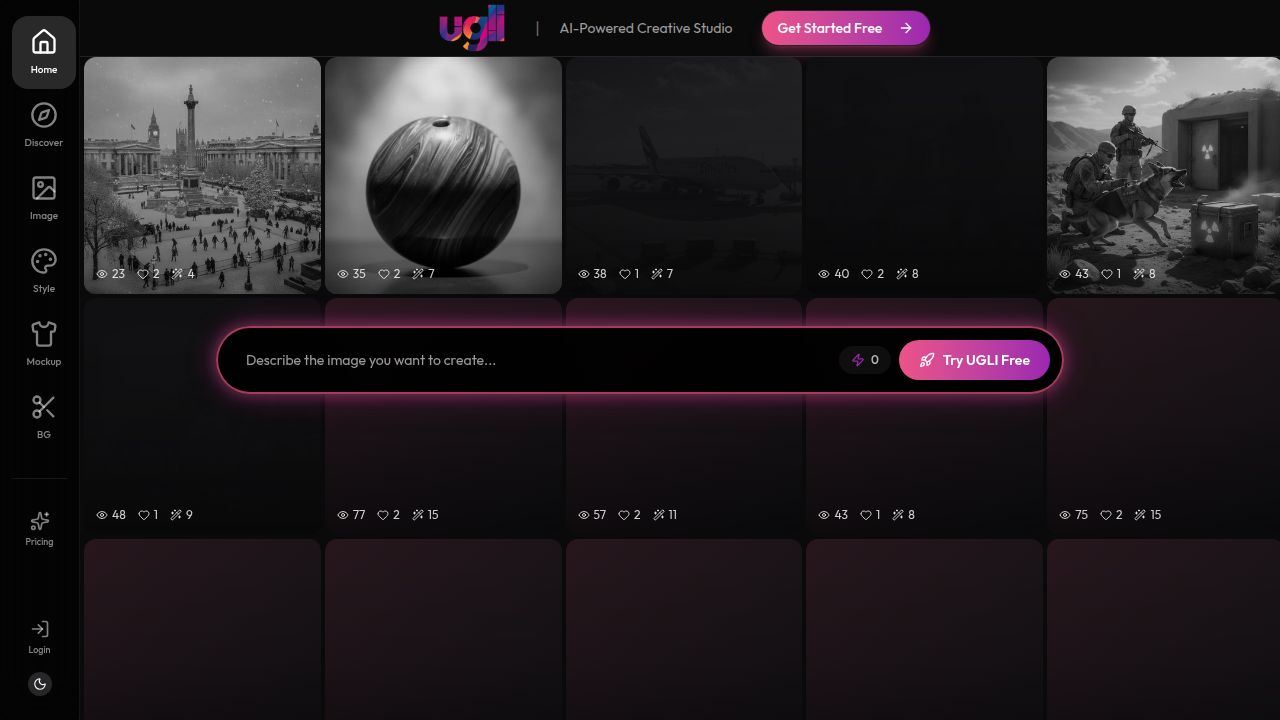
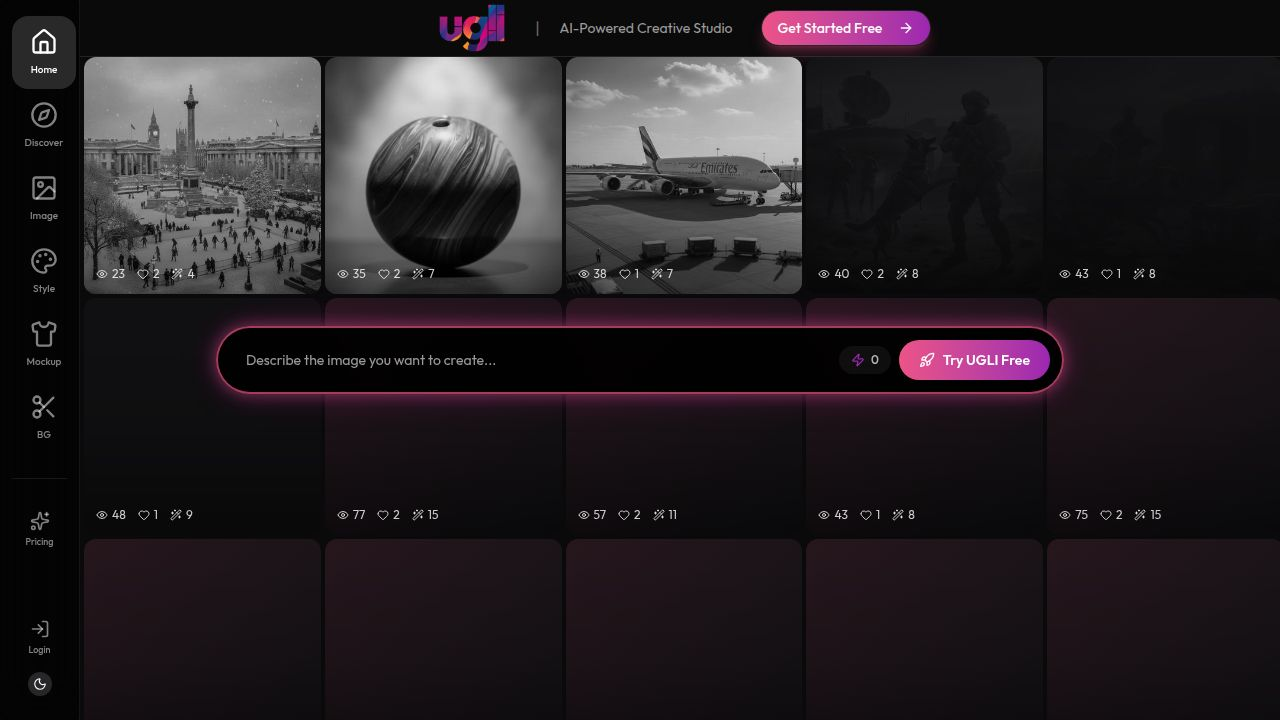
Add gallery options and improve mockup generator layout
Add a dropdown menu with actions for gallery images and refactor the mockup generator's camera angles section.

Replit-Commit-Author: Agent
Replit-Commit-Session-Id: 26597823-46ad-4689-b72f-6ac7cb0ce539
Replit-Commit-Checkpoint-Type: intermediate_checkpoint
Replit-Commit-Event-Id: 80f9e5e1-228a-4d70-b9f7-16ef39c6ae64
Replit-Commit-Screenshot-Url: https://storage.googleapis.com/screenshot-production-us-central1/baa6e7c9-800f-4db8-977d-5f62b4ff348e/26597823-46ad-4689-b72f-6ac7cb0ce539/NnGBm77
Replit-Helium-Checkpoint-Created: true

Changed region(s): [[0.4375, 0.0611, 0.625, 0.4278], [0.8125, 0.0611, 1.0, 0.4278]]

diff --git a/client/src/pages/mockup-generator.tsx b/client/src/pages/mockup-generator.tsx
@@ -2092,98 +2092,101 @@ export default function MockupGenerator() {
                                     />
                                   </div>
 
-                                  {/* Angles Selection */}
-                                  <div className="bg-card rounded-xl border border-border p-4 sm:p-5">
-                                    <div className="flex items-center justify-between mb-3">
-                                      <div className="flex items-center gap-2">
-                                        <Camera className="h-4 w-4 text-primary" />
-                                        <h3 className="text-sm font-bold text-foreground">Camera Angles</h3>
+                                  {/* Right Column: Camera Angles + Output Quality */}
+                                  <div className="flex flex-col gap-4">
+                                    {/* Angles Selection */}
+                                    <div className="bg-card rounded-xl border border-border p-4 sm:p-5">
+                                      <div className="flex items-center justify-between mb-3">
+                                        <div className="flex items-center gap-2">
+                                          <Camera className="h-4 w-4 text-primary" />
+                                          <h3 className="text-sm font-bold text-foreground">Camera Angles</h3>
+                                        </div>
+                                        <div className="flex gap-2">
+                                          <button 
+                                            onClick={() => setSelectedAngles(MOCKUP_ANGLES.filter(a => a.recommended).map(a => a.id))}
+                                            className="text-xs font-medium text-green-600 hover:underline"
+                                          >
+                                            Recommended
+                                          </button>
+                                          <span className="text-border text-xs">|</span>
+                                          <button 
+                                            onClick={() => setSelectedAngles(MOCKUP_ANGLES.map(a => a.id))}
+                                            className="text-xs font-medium text-primary hover:underline"
+                                          >
+                                            All
+                                          </button>
+                                          <span className="text-border text-xs">|</span>
+                                          <button 
+                                            onClick={() => setSelectedAngles([])}
+                                            className="text-xs font-medium text-muted-foreground hover:underline"
+                                          >
+                                            Clear
+                                          </button>
+                                        </div>
                                       </div>
-                                      <div className="flex gap-2">
-                                        <button 
-                                          onClick={() => setSelectedAngles(MOCKUP_ANGLES.filter(a => a.recommended).map(a => a.id))}
-                                          className="text-xs font-medium text-green-600 hover:underline"
-                                        >
-                                          Recommended
-                                        </button>
-                                        <span className="text-border text-xs">|</span>
-                                        <button 
-                                          onClick={() => setSelectedAngles(MOCKUP_ANGLES.map(a => a.id))}
-                                          className="text-xs font-medium text-primary hover:underline"
-                                        >
-                                          All
-                                        </button>
-                                        <span className="text-border text-xs">|</span>
-                                        <button 
-                                          onClick={() => setSelectedAngles([])}
-                                          className="text-xs font-medium text-muted-foreground hover:underline"
-                                        >
-                                          Clear
-                                        </button>
-                                      </div>
+                                      
+                                      <TooltipProvider delayDuration={200}>
+                                        <div className="flex flex-wrap justify-center gap-3">
+                                          {MOCKUP_ANGLES.map((angle) => {
+                                            const isSelected = selectedAngles.includes(angle.id);
+                                            return (
+                                              <Tooltip key={angle.id}>
+                                                <TooltipTrigger asChild>
+                                                  <button
+                                                    onClick={() => {
+                                                      if (isSelected) {
+                                                        setSelectedAngles(selectedAngles.filter(id => id !== angle.id));
+                                                      } else {
+                                                        setSelectedAngles([...selectedAngles, angle.id]);
+                                                      }
+                                                    }}
+                                                    className={cn(
+                                                      "relative h-24 w-24 rounded-xl border-2 flex flex-col items-center justify-center gap-2 transition-all",
+                                                      isSelected 
+                                                        ? "bg-primary/10 border-primary text-primary" 
+                                                        : "bg-muted/30 border-border text-muted-foreground hover:border-primary/30"
+                                                    )}
+                                                    data-testid={`angle-${angle.id}`}
+                                                  >
+                                                    <angle.icon className="h-8 w-8" />
+                                                    <span className="text-sm font-medium leading-tight">{angle.name.split(' ')[0]}</span>
+                                                    {angle.recommended && !isSelected && (
+                                                      <div className="absolute -top-1 -right-1 h-3 w-3 bg-green-500 rounded-full" />
+                                                    )}
+                                                    {isSelected && (
+                                                      <div className="absolute -top-1 -right-1 bg-primary rounded-full p-0.5">
+                                                        <Check className="h-3 w-3 text-white" />
+                                                      </div>
+                                                    )}
+                                                  </button>
+                                                </TooltipTrigger>
+                                                <TooltipContent side="bottom" className="text-xs">{angle.description}</TooltipContent>
+                                              </Tooltip>
+                                            );
+                                          })}
+                                        </div>
+                                      </TooltipProvider>
                                     </div>
-                                    
-                                    <TooltipProvider delayDuration={200}>
-                                      <div className="flex flex-wrap justify-center gap-3">
-                                        {MOCKUP_ANGLES.map((angle) => {
-                                          const isSelected = selectedAngles.includes(angle.id);
-                                          return (
-                                            <Tooltip key={angle.id}>
-                                              <TooltipTrigger asChild>
-                                                <button
-                                                  onClick={() => {
-                                                    if (isSelected) {
-                                                      setSelectedAngles(selectedAngles.filter(id => id !== angle.id));
-                                                    } else {
-                                                      setSelectedAngles([...selectedAngles, angle.id]);
-                                                    }
-                                                  }}
-                                                  className={cn(
-                                                    "relative h-24 w-24 rounded-xl border-2 flex flex-col items-center justify-center gap-2 transition-all",
-                                                    isSelected 
-                                                      ? "bg-primary/10 border-primary text-primary" 
-                                                      : "bg-muted/30 border-border text-muted-foreground hover:border-primary/30"
-                                                  )}
-                                                  data-testid={`angle-${angle.id}`}
-                                                >
-                                                  <angle.icon className="h-8 w-8" />
-                                                  <span className="text-sm font-medium leading-tight">{angle.name.split(' ')[0]}</span>
-                                                  {angle.recommended && !isSelected && (
-                                                    <div className="absolute -top-1 -right-1 h-3 w-3 bg-green-500 rounded-full" />
-                                                  )}
-                                                  {isSelected && (
-                                                    <div className="absolute -top-1 -right-1 bg-primary rounded-full p-0.5">
-                                                      <Check className="h-3 w-3 text-white" />
-                                                    </div>
-                                                  )}
-                                                </button>
-                                              </TooltipTrigger>
-                                              <TooltipContent side="bottom" className="text-xs">{angle.description}</TooltipContent>
-                                            </Tooltip>
-                                          );
-                                        })}
-                                      </div>
-                                    </TooltipProvider>
-                                  </div>
-                                </div>
 
-                                {/* Quality + Summary */}
-                                <div className="bg-card rounded-xl border border-border p-4 sm:p-5">
-                                  <div className="flex items-center justify-between mb-4">
-                                    <div className="flex items-center gap-2">
-                                      <Maximize2 className="h-4 w-4 text-primary" />
-                                      <span className="text-sm font-bold text-foreground">Output Quality</span>
+                                    {/* Output Quality - Below Camera Angles */}
+                                    <div className="bg-card rounded-xl border border-border p-4 sm:p-5">
+                                      <div className="flex items-center justify-between">
+                                        <div className="flex items-center gap-2">
+                                          <Maximize2 className="h-4 w-4 text-primary" />
+                                          <span className="text-sm font-bold text-foreground">Output Quality</span>
+                                        </div>
+                                        <Select value={outputQuality} onValueChange={(value: OutputQuality) => setOutputQuality(value)}>
+                                          <SelectTrigger className="w-[140px] h-9" data-testid="quality-select">
+                                            <SelectValue />
+                                          </SelectTrigger>
+                                          <SelectContent>
+                                            {OUTPUT_QUALITY_OPTIONS.map((q) => (
+                                              <SelectItem key={q.id} value={q.id}>{q.name} ({q.resolution})</SelectItem>
+                                            ))}
+                                          </SelectContent>
+                                        </Select>
+                                      </div>
                                     </div>
-                                    <Select value={outputQuality} onValueChange={(value: OutputQuality) => setOutputQuality(value)}>
-                                      <SelectTrigger className="w-[140px] h-9" data-testid="quality-select">
-                                        <SelectValue />
-                                      </SelectTrigger>
-                                      <SelectContent>
-                                        {OUTPUT_QUALITY_OPTIONS.map((q) => (
-                                          <SelectItem key={q.id} value={q.id}>{q.name} ({q.resolution})</SelectItem>
-                                        ))}
-                                      </SelectContent>
-                                    </Select>
                                   </div>
                                 </div>
 

diff --git a/client/src/pages/image-generator.tsx b/client/src/pages/image-generator.tsx
@@ -68,7 +68,10 @@ import {
   Medal,
   Award,
   Eye,
-  FolderInput
+  FolderInput,
+  Shirt,
+  Scissors,
+  ArrowUpRight
 } from "lucide-react";
 import { motion, AnimatePresence } from "framer-motion";
 import { cn } from "@/lib/utils";
@@ -113,6 +116,7 @@ import { generateApi, imagesApi, GenerationEvent, promptFavoritesApi, PromptFavo
 import { useAuth } from "@/hooks/use-auth";
 import { Label } from "@/components/ui/label";
 import { useLocation } from "wouter";
+import { transferImageToTool } from "@/lib/image-transfer";
 import { TutorialOverlay, useTutorial } from "@/components/tutorial-overlay";
 import { useCredits } from "@/hooks/use-credits";
 import { DailyInspirationFeed, PersonalizedPrompts } from "@/components/daily-inspiration";
@@ -2061,17 +2065,86 @@ export default function ImageGenerator() {
                           >
                             <Star className={cn("h-3 w-3", gen.isFavorite && "fill-yellow-400 text-yellow-400")} />
                           </Button>
-                          <Button 
-                            size="icon" 
-                            className="h-7 w-7 bg-white/10 hover:bg-red-500/80 text-white border-0 backdrop-blur-md rounded-lg ml-auto"
-                            onClick={(e) => {
-                              e.stopPropagation();
-                              setImageToDelete(gen);
-                            }}
-                            data-testid="button-delete-gallery"
-                          >
-                            <Trash2 className="h-3 w-3" />
-                          </Button>
+                          <DropdownMenu>
+                            <DropdownMenuTrigger asChild>
+                              <Button 
+                                size="icon" 
+                                className="h-7 w-7 bg-white/10 hover:bg-white/20 text-white border-0 backdrop-blur-md rounded-lg ml-auto"
+                                onClick={(e) => e.stopPropagation()}
+                                data-testid="button-more-gallery"
+                              >
+                                <MoreHorizontal className="h-3 w-3" />
+                              </Button>
+                            </DropdownMenuTrigger>
+                            <DropdownMenuContent align="end" className="bg-[#1F1F25] border-[#2A2A30] text-[#E4E4E7]">
+                              <DropdownMenuItem 
+                                onClick={(e) => { e.stopPropagation(); setSelectedImage(gen); }} 
+                                className="hover:bg-[#2A2A30] cursor-pointer"
+                              >
+                                <ArrowUpRight className="h-4 w-4 mr-2" /> Open
+                              </DropdownMenuItem>
+                              <DropdownMenuItem 
+                                onClick={(e) => { e.stopPropagation(); copyImageToClipboard(gen.src); }} 
+                                className="hover:bg-[#2A2A30] cursor-pointer"
+                              >
+                                <ClipboardCopy className="h-4 w-4 mr-2" /> Copy to Clipboard
+                              </DropdownMenuItem>
+                              <DropdownMenuItem 
+                                onClick={(e) => { e.stopPropagation(); toast({ title: "Coming Soon", description: "Duplicate feature is coming soon." }); }} 
+                                className="hover:bg-[#2A2A30] cursor-pointer"
+                              >
+                                <Copy className="h-4 w-4 mr-2" /> Duplicate
+                              </DropdownMenuItem>
+                              <DropdownMenuItem 
+                                onClick={(e) => { 
+                                  e.stopPropagation(); 
+                                  setImageToSave(gen);
+                                  setShowFolderModal(true);
+                                }} 
+                                className="hover:bg-[#2A2A30] cursor-pointer"
+                              >
+                                <FolderInput className="h-4 w-4 mr-2" /> Move to Folder
+                              </DropdownMenuItem>
+                              <DropdownMenuSeparator className="bg-[#2A2A30]" />
+                              <DropdownMenuItem 
+                                onClick={(e) => { 
+                                  e.stopPropagation(); 
+                                  const route = transferImageToTool({ src: gen.src, name: gen.prompt, id: gen.id }, "mockup");
+                                  setLocation(route);
+                                }} 
+                                className="hover:bg-[#2A2A30] cursor-pointer"
+                              >
+                                <Shirt className="h-4 w-4 mr-2" /> Use in Mockup Creator
+                              </DropdownMenuItem>
+                              <DropdownMenuItem 
+                                onClick={(e) => { 
+                                  e.stopPropagation(); 
+                                  const route = transferImageToTool({ src: gen.src, name: gen.prompt, id: gen.id }, "bg-remover");
+                                  setLocation(route);
+                                }} 
+                                className="hover:bg-[#2A2A30] cursor-pointer"
+                              >
+                                <Scissors className="h-4 w-4 mr-2" /> Remove Background
+                              </DropdownMenuItem>
+                              <DropdownMenuItem 
+                                onClick={(e) => { 
+                                  e.stopPropagation(); 
+                                  const route = transferImageToTool({ src: gen.src, name: gen.prompt, id: gen.id }, "style-transfer");
+                                  setLocation(route);
+                                }} 
+                                className="hover:bg-[#2A2A30] cursor-pointer"
+                              >
+                                <Palette className="h-4 w-4 mr-2" /> Apply Style Transfer
+                              </DropdownMenuItem>
+                              <DropdownMenuSeparator className="bg-[#2A2A30]" />
+                              <DropdownMenuItem 
+                                onClick={(e) => { e.stopPropagation(); setImageToDelete(gen); }} 
+                                className="hover:bg-red-500/20 text-red-400 cursor-pointer"
+                              >
+                                <Trash2 className="h-4 w-4 mr-2" /> Delete
+                              </DropdownMenuItem>
+                            </DropdownMenuContent>
+                          </DropdownMenu>
                         </div>
                       </div>
                       {gen.isNew && (
